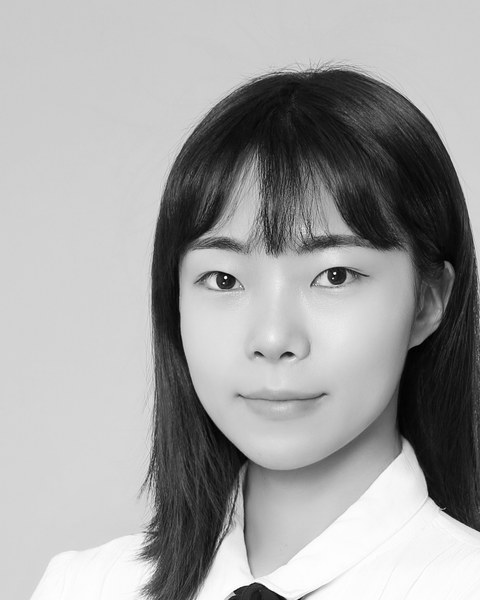
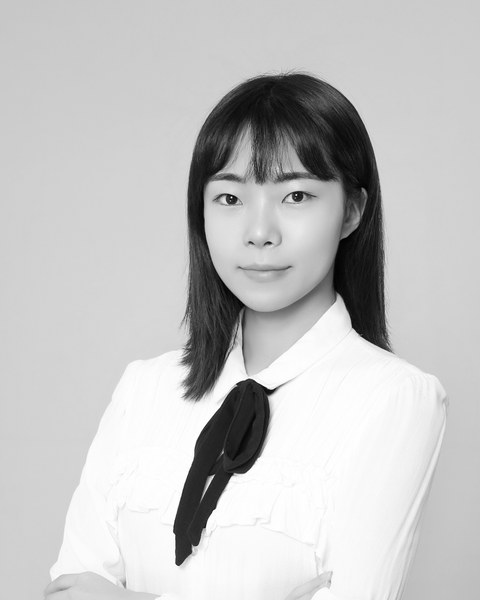
Zoom out 장효진, add 형일우's real photo
장효진 was over-cropped from the last close-up round; reverted to
the half-body arms-visible framing used for the rest of the roster.
Added 형일우's newly-provided photo, replacing his monogram
placeholder, cropped to a bust portrait with shoulder/collar visible.

diff --git a/index.html b/index.html
@@ -239,8 +239,8 @@
           <h3>박한미</h3>
           <p class="tcard-role">국어</p>
         </div>
-        <div class="carousel-slide tcard lightbox-trigger" data-name="장효진" data-role="국어" data-photo="assets/teacher-jangHyojin.jpg?v=4">
-          <div class="tcard-photo-wrap"><img class="tcard-photo" src="assets/teacher-jangHyojin.jpg?v=4" alt="장효진"></div>
+        <div class="carousel-slide tcard lightbox-trigger" data-name="장효진" data-role="국어" data-photo="assets/teacher-jangHyojin.jpg?v=5">
+          <div class="tcard-photo-wrap"><img class="tcard-photo" src="assets/teacher-jangHyojin.jpg?v=5" alt="장효진"></div>
           <h3>장효진</h3>
           <p class="tcard-role">국어</p>
         </div>
@@ -249,8 +249,8 @@
           <h3>김정민</h3>
           <p class="tcard-role">통합사회 · 한국사</p>
         </div>
-        <div class="carousel-slide tcard lightbox-trigger" data-name="형일우" data-role="수학">
-          <div class="tcard-photo-wrap tcard-placeholder"><span class="tcard-initial">형</span></div>
+        <div class="carousel-slide tcard lightbox-trigger" data-name="형일우" data-role="수학" data-photo="assets/teacher-hyungilwoo.jpg">
+          <div class="tcard-photo-wrap"><img class="tcard-photo" src="assets/teacher-hyungilwoo.jpg" alt="형일우"></div>
           <h3>형일우</h3>
           <p class="tcard-role">수학</p>
         </div>

diff --git a/process-teachers.js b/process-teachers.js
@@ -17,9 +17,10 @@ const photos = [
   { file: '안소현 프로필.jpg', out: 'teacher-ansoseon.jpg', top: 0.127, bottom: 0.64, left: 0.212, right: 0.778 },
   { file: '최윤후 프로필.jpg', out: 'teacher-choiyoonhoo.jpg', top: 0.114, bottom: 0.777, left: 0.133, right: 0.837 },
   { file: '조윤성 프로필.png', out: 'teacher-jhoyoonsung.jpg', top: 0.203, bottom: 0.76, left: 0.177, right: 0.803 },
-  { file: '장효진 프로필.jpg', out: 'teacher-jangHyojin.jpg', top: 0.08, bottom: 0.50, left: 0.2225, right: 0.7275 },
+  { file: '장효진 프로필.jpg', out: 'teacher-jangHyojin.jpg', top: 0.04, bottom: 0.75, left: 0.05, right: 0.90 },
   { file: '김정민 프로필.png', out: 'teacher-kimjeongmin.jpg', top: 0.045, bottom: 0.86, left: 0.2115, right: 0.8635 },
   { file: '박한미 프로필.jpeg', out: 'teacher-parkhanmi.jpg', top: 0.03, bottom: 0.81, left: 0.10, right: 0.90 },
+  { file: '형일우 프로필.jpg', out: 'teacher-hyungilwoo.jpg', top: 0.06, bottom: 0.61, left: 0.02, right: 0.96 },
 ];
 
 const targetRatio = OUT_W / OUT_H; // 0.8
